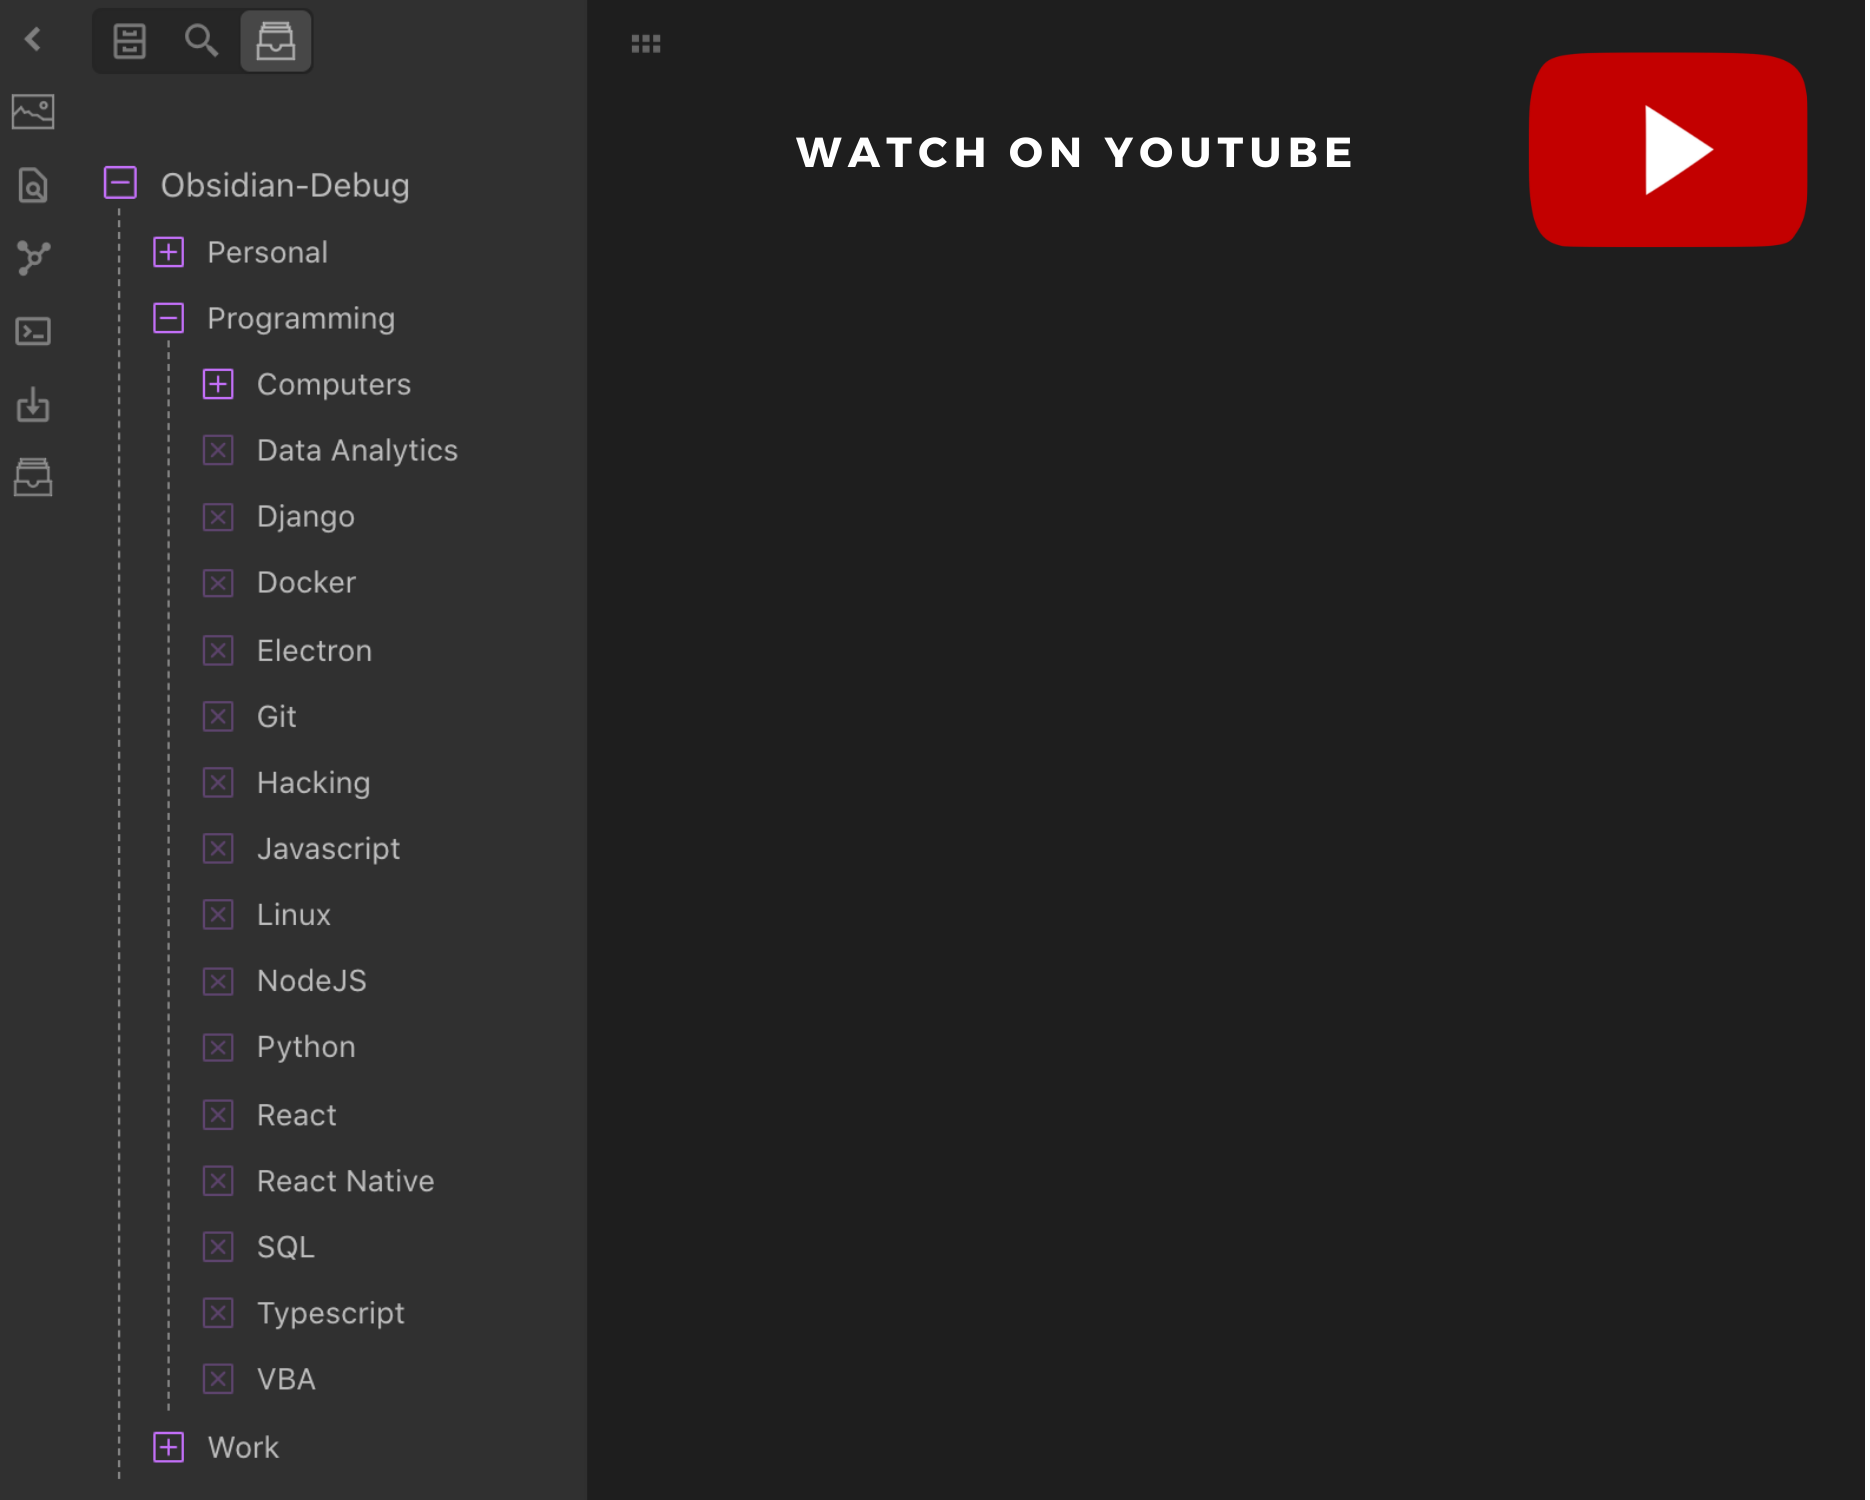
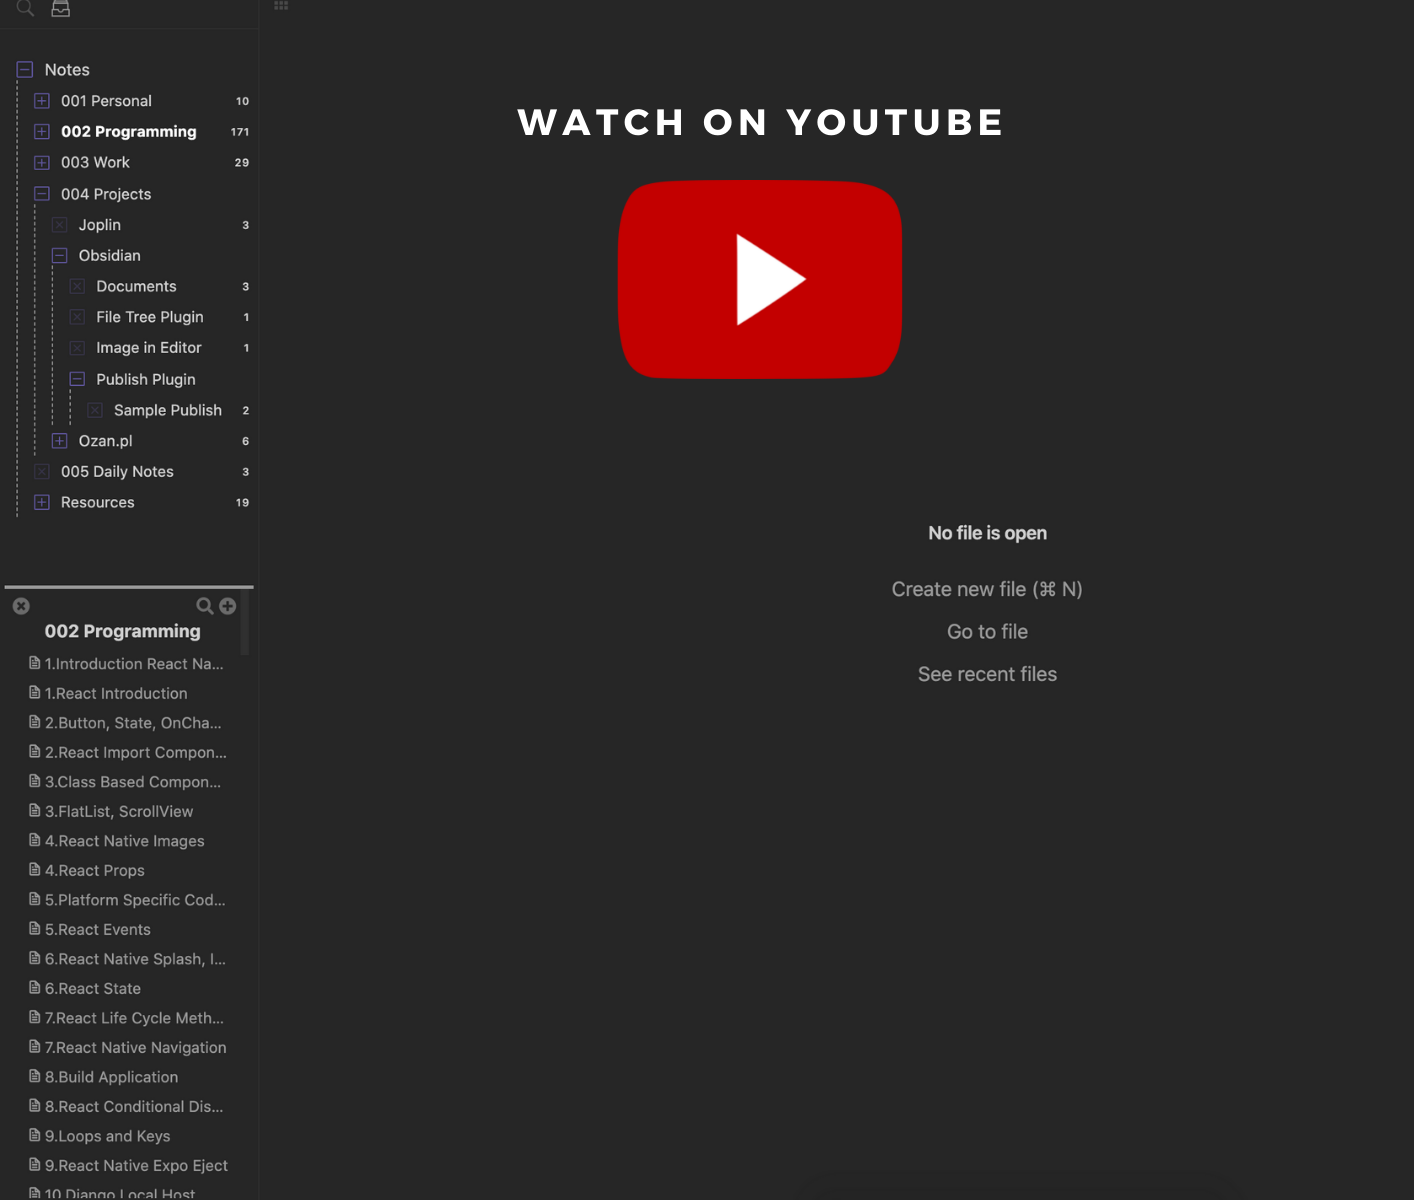
README Update

diff --git a/src/settings.ts b/src/settings.ts
@@ -26,7 +26,7 @@ export const DEFAULT_SETTINGS: FileTreeAlternativePluginSettings = {
 	folderCountOption: 'notes',
 	openFolders: [],
 	pinnedFiles: [],
-	evernoteView: false,
+	evernoteView: true,
 };
 
 export class FileTreeAlternativePluginSettingsTab extends PluginSettingTab {

diff --git a/README.md b/README.md
@@ -4,8 +4,24 @@
 ![GitHub all releases](https://img.shields.io/github/downloads/ozntel/file-tree-alternative/total?style=for-the-badge)
 
 This Obsidian Plugin allows users to have a different file explorer experience.
-Please watch the sample record to see the details.
+
+You can select `Evernote` Option, which creates a separate view for folders and file lists, or simply switch between the folder and file.
+
+Watch the sample record to see how it works.
+
 You can find all release details under the [Release Updates](https://github.com/ozntel/file-tree-alternative/blob/main/Releases.md)
+
+## See Sample Record
+
+<a href="https://youtu.be/fbz8IZtXuUE" target=“_blank”>
+    <img src="https://github.com/ozntel/file-tree-alternative/raw/main/images/obsidian-plugin.png" style="width: 600px;" /> 
+</a>
+
+## Sample Images
+
+<img src="https://github.com/ozntel/file-tree-alternative/raw/main/images/files-pinned.png" style="width: 600px;" />
+
+<img src="https://github.com/ozntel/file-tree-alternative/raw/main/images/folders-view.png" style="width: 600px;" />
 
 ### Features:
 
@@ -25,50 +41,6 @@ You can find all release details under the [Release Updates](https://github.com/
 -   You can turn on/off `root folder` within the file tree.
 
     **Note**: The last state of `expanded folders` and `pinned files` are saved in `data.json`. Please ensure that you don't delete them manually from `plugin settings` since it will delete all your configuration.
-
-## See Sample Records
-
-### Update v1.1.5
-
-<a href="https://youtu.be/i3Ly06IurCA" target=“_blank”>
-    <img src="https://github.com/ozntel/file-tree-alternative/raw/main/images/update-1.1.5.png" style="width: 600px;" /> 
-</a>
-
-### Update v1.1.4
-
-<a href="https://youtu.be/ICjvXpbSmuU" target=“_blank”>
-    <img src="https://github.com/ozntel/file-tree-alternative/raw/main/images/file-tree-alternative-youtube.png" style="width: 600px;" /> 
-</a>
-
-### Update v1.1.0
-
-<a href="https://youtu.be/25crdxtyENA" target=“_blank”>
-    <img src="https://github.com/ozntel/file-tree-alternative/raw/main/images/obsidian-plugin.png" style="width: 600px;" /> 
-</a>
-
-## Sample Images
-
-<img src="https://github.com/ozntel/file-tree-alternative/raw/main/images/files-pinned.png" style="width: 600px;" />
-
-<img src="https://github.com/ozntel/file-tree-alternative/raw/main/images/folders-view.png" style="width: 600px;" />
-
-## Old Version (Evernote Style)
-
-Due to fact that there was a limitation to manipulate the default `file explorer` of Obsidian, I needed to move away from the Evernote style approach.
-
-**If you still want to use this version, you need to handle the installation manually from `v1.0.1`:**
-
-[File Tree Alternative Plugin v.1.0.1](https://github.com/ozntel/file-tree-alternative/releases/tag/1.0.1)
-
-**You can see how this version works under the recorded video below:**
-
-[Youtube: File Tree Alternative Plugin Demonstration](https://youtu.be/ahwt4vXQLt0)
-
-Please note that I don't support this version anymore in case you encounter any issue.
-
-**To see the Obsidian discussion, please visit the link below:**
-
-[Obsidian Forum: Split view of the File Pane Feature Request](https://forum.obsidian.md/t/split-view-of-the-file-pane/19555/4?u=ozan)
 
 ## Contact
 
